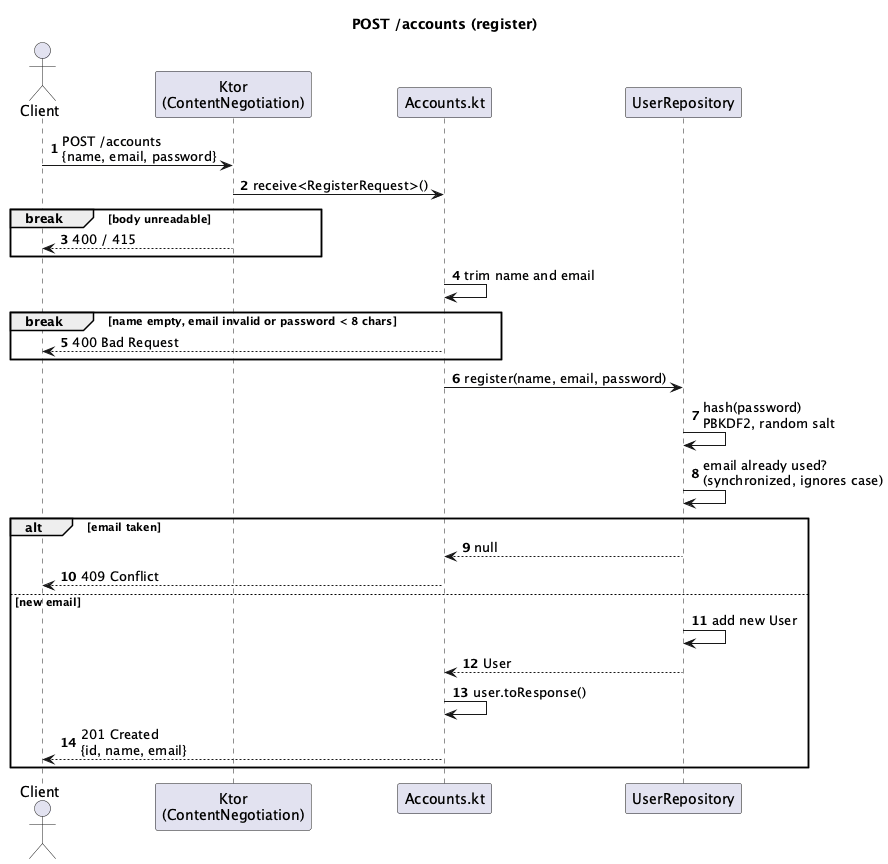
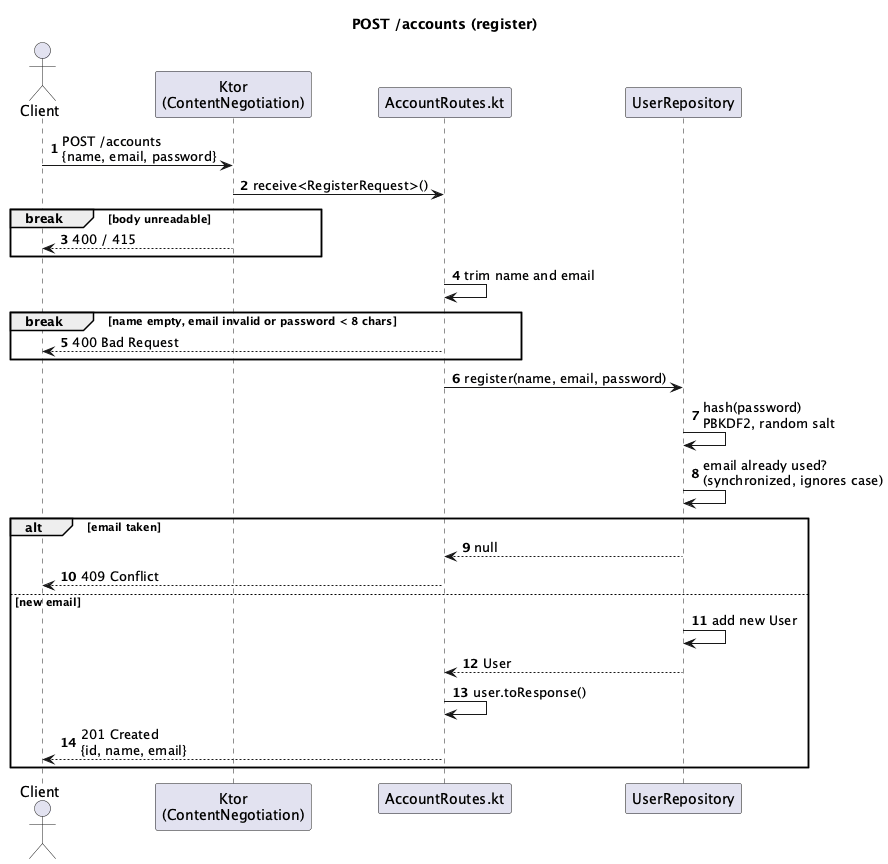
refactor: organize the code in one package per feature (#52)
* Organize the code in one package per feature

Move the car classes, CarRepository and the /cars route to
src/cars (com.example.cars), and User, UserRepository and Accounts.kt
to src/accounts (com.example.accounts). Tests move along. No behaviour
change.

* Name the accounts package in the class diagram

* Render the account class diagram again

* Rename Accounts.kt to AccountRoutes.kt, like CarRoutes.kt

Both features now keep their routes in a <Feature>Routes.kt file, as their
tests are named. The diagrams that name the file are rendered again.

Changed region(s): [[0.4257, 0.9062, 0.5777, 0.9688], [0.4257, 0.0938, 0.5777, 0.1562], [0.5473, 0.375, 0.6081, 0.4062]]

diff --git a/src/cars/BEVCar.kt b/src/cars/BEVCar.kt
@@ -1,10 +1,10 @@
-package com.example.domain
+package com.example.cars
 import kotlinx.serialization.SerialName
 import kotlinx.serialization.Serializable
 
 @Serializable
-@SerialName("ICE")
-class ICECar (
+@SerialName("BEV")
+class BEVCar (
     override val id: Int,
     override val brand: String,
     override val licensePlate: String,
@@ -18,7 +18,6 @@ class ICECar (
     override val power: Int,
     override val transmission: Transmission,
     override val color: String,
-    val fuelType: FuelType,
-    val tankCapacityLitres: Double,
-    val consumptionLitresPer100Km: Double
+    val batteryCapacityKwh: Double,
+    val consumptionKwhPer100Km: Double
 ) : Car()

diff --git a/src/cars/ICECar.kt b/src/cars/ICECar.kt
@@ -1,10 +1,10 @@
-package com.example.domain
+package com.example.cars
 import kotlinx.serialization.SerialName
 import kotlinx.serialization.Serializable
 
 @Serializable
-@SerialName("FCEV")
-class FCEVCar (
+@SerialName("ICE")
+class ICECar (
     override val id: Int,
     override val brand: String,
     override val licensePlate: String,
@@ -18,6 +18,7 @@ class FCEVCar (
     override val power: Int,
     override val transmission: Transmission,
     override val color: String,
-    val tankCapacityKg: Double,
-    val consumptionKgPer100Km: Double
+    val fuelType: FuelType,
+    val tankCapacityLitres: Double,
+    val consumptionLitresPer100Km: Double
 ) : Car()

diff --git a/src/cars/FCEVCar.kt b/src/cars/FCEVCar.kt
@@ -1,10 +1,10 @@
-package com.example.domain
+package com.example.cars
 import kotlinx.serialization.SerialName
 import kotlinx.serialization.Serializable
 
 @Serializable
-@SerialName("BEV")
-class BEVCar (
+@SerialName("FCEV")
+class FCEVCar (
     override val id: Int,
     override val brand: String,
     override val licensePlate: String,
@@ -18,6 +18,6 @@ class BEVCar (
     override val power: Int,
     override val transmission: Transmission,
     override val color: String,
-    val batteryCapacityKwh: Double,
-    val consumptionKwhPer100Km: Double
+    val tankCapacityKg: Double,
+    val consumptionKgPer100Km: Double
 ) : Car()

diff --git a/src/Routing.kt b/src/Routing.kt
@@ -1,22 +1,11 @@
 package com.example
 
-import com.example.domain.*
-import com.example.repository.CarRepository
-import com.example.repository.InMemoryCarRepository
-import io.ktor.http.*
 import io.ktor.server.application.*
 import io.ktor.server.http.content.*
-import io.ktor.server.response.*
 import io.ktor.server.routing.*
 
-fun Application.configureRouting(
-    repository: CarRepository = InMemoryCarRepository()
-) {
+fun Application.configureRouting() {
     routing {
         staticResources("static", "static")
-
-        get("/cars") {
-            call.respond(repository.allCars())
-        }
     }
 }

diff --git a/src/cars/InMemoryCarRepository.kt b/src/cars/InMemoryCarRepository.kt
@@ -1,13 +1,4 @@
-package com.example.repository
-import com.example.domain.BEVCar
-import com.example.domain.BodyStyle
-import com.example.domain.Car
-import com.example.domain.CarStatus
-import com.example.domain.FCEVCar
-import com.example.domain.FuelType
-import com.example.domain.ICECar
-import com.example.domain.Location
-import com.example.domain.Transmission
+package com.example.cars
 
 class InMemoryCarRepository : CarRepository {
     private val cars: List<Car> = listOf(

diff --git a/src/Application.kt b/src/Application.kt
@@ -1,6 +1,7 @@
 package org.jetbrains.amper.ktor
 
-import com.example.configureAccounts
+import com.example.accounts.configureAccounts
+import com.example.cars.configureCars
 import com.example.configureRouting
 import com.example.configureSerialization
 import io.ktor.server.application.*
@@ -12,5 +13,6 @@ fun main(args: Array<String>) {
 fun Application.module() {
     configureSerialization()
     configureRouting()
+    configureCars()
     configureAccounts()
 }

diff --git a/src/cars/CarRoutes.kt b/src/cars/CarRoutes.kt
@@ -1,0 +1,15 @@
+package com.example.cars
+
+import io.ktor.server.application.*
+import io.ktor.server.response.*
+import io.ktor.server.routing.*
+
+fun Application.configureCars(
+    repository: CarRepository = InMemoryCarRepository()
+) {
+    routing {
+        get("/cars") {
+            call.respond(repository.allCars())
+        }
+    }
+}

diff --git a/src/accounts/AccountRoutes.kt b/src/accounts/AccountRoutes.kt
@@ -1,8 +1,5 @@
-package com.example
+package com.example.accounts
 
-import com.example.domain.RegisterRequest
-import com.example.domain.UserRepository
-import com.example.domain.toResponse
 import io.ktor.http.*
 import io.ktor.server.application.*
 import io.ktor.server.request.*

diff --git a/test/accounts/AccountRoutesTest.kt b/test/accounts/AccountRoutesTest.kt
@@ -1,4 +1,5 @@
-import com.example.domain.UserRepository
+package com.example.accounts
+
 import io.ktor.client.request.post
 import io.ktor.client.request.setBody
 import io.ktor.client.statement.bodyAsText

diff --git a/test/cars/CarRoutesTest.kt b/test/cars/CarRoutesTest.kt
@@ -1,3 +1,5 @@
+package com.example.cars
+
 import io.ktor.client.request.get
 import io.ktor.client.statement.bodyAsText
 import io.ktor.http.ContentType

diff --git a/test/accounts/UserRepositoryTest.kt b/test/accounts/UserRepositoryTest.kt
@@ -1,4 +1,5 @@
-import com.example.domain.UserRepository
+package com.example.accounts
+
 import kotlin.test.*
 
 class UserRepositoryTest {

diff --git a/src/accounts/UserRepository.kt b/src/accounts/UserRepository.kt
@@ -1,4 +1,4 @@
-package com.example.domain
+package com.example.accounts
 
 import java.security.SecureRandom
 import java.util.Base64
